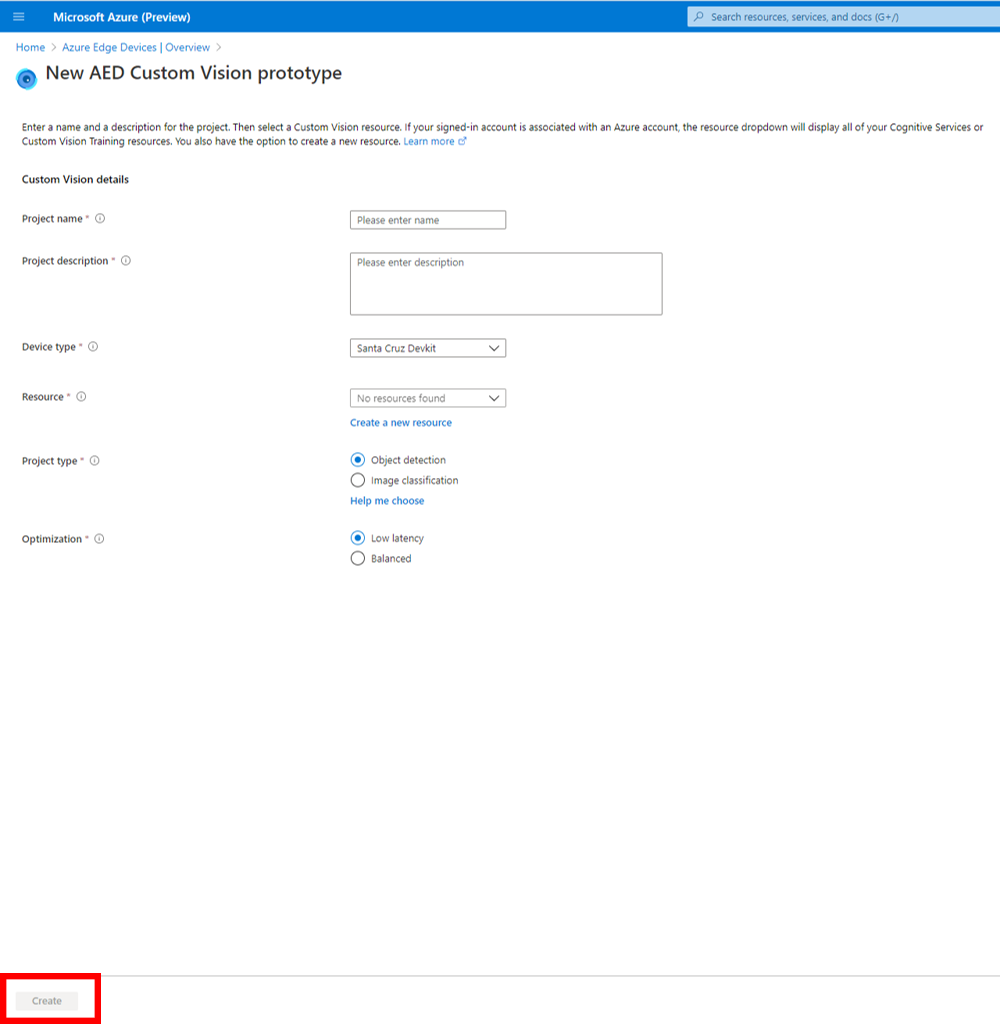
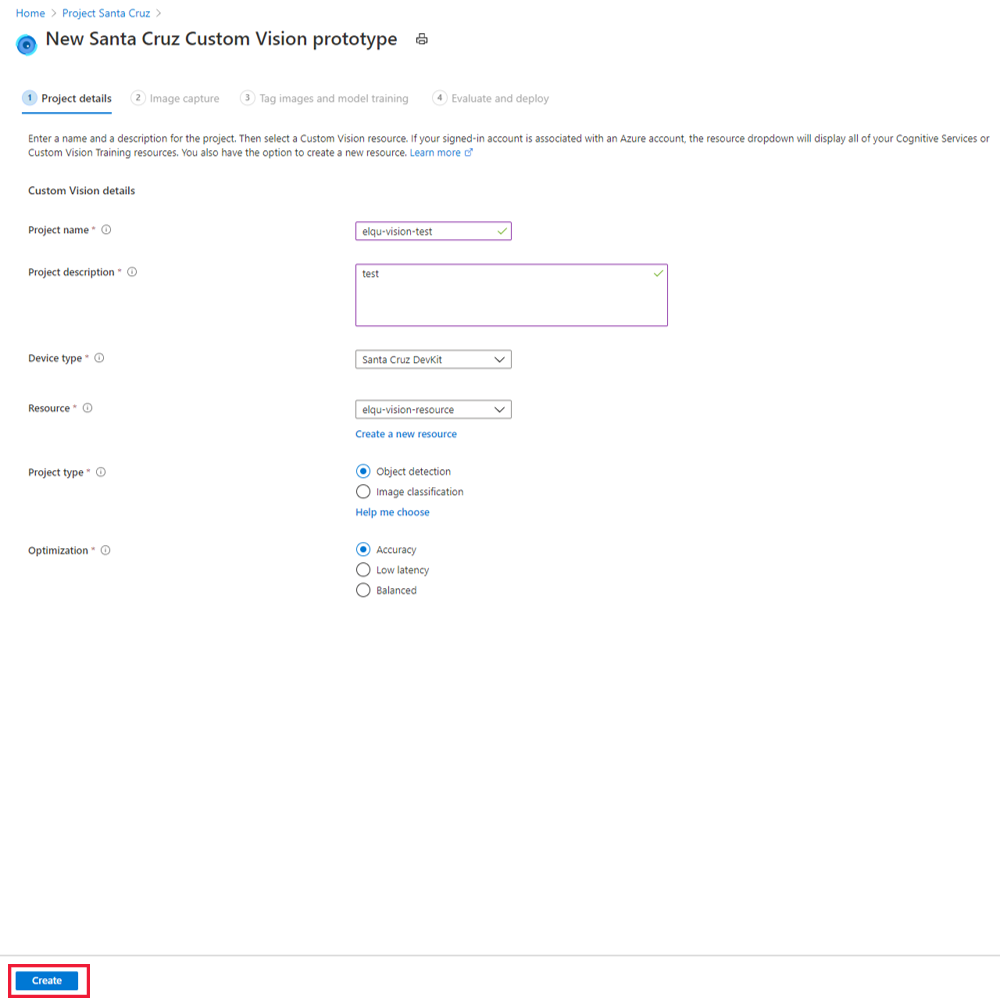
updated no-code vision article to reflect UI changes

diff --git a/user-guides/prototyping/create-nocode-vision.md b/user-guides/prototyping/create-nocode-vision.md
@@ -6,30 +6,21 @@ Project Santa Cruz enables you to build and deploy complete computer vision solu
 
 * Project Santa Cruz Development Kit with the Azure Eye SoM connected.
 
-* [Onboarding](https://github.com/microsoft/Project-Santa-Cruz-Private-Preview/blob/main/user-guides/getting_started/azure-subscription-onboarding.md) complete.
+* [Onboarding](https://github.com/microsoft/Project-Santa-Cruz-Private-Preview/blob/main/user-guides/getting_started/azure-subscription-onboarding.md) has been completed.
 
-* [OOBE](https://github.com/microsoft/Project-Santa-Cruz-Private-Preview/blob/main/user-guides/getting_started/oobe.md) complete.
-
-## Project Santa Cruz in the Azure Portal
-
-1. Start your browser and go to the [Azure portal](https://go.microsoft.com/fwlink/?linkid=2135819).
-2. Sign into your Azure account. 
-3. Use the Search box at the top of the page, enter *Project Santa Cruz*.
-4. In the list that appears, choose *Project Santa Cruz*. Your browser displays the Project Santa Cruz Overview page.
-
-Alternatively, you can navigate directly to the [Project Santa Cruz Overview page](https://go.microsoft.com/fwlink/?linkid=2135819).
-
-![Project Santa Cruz Portal](https://github.com/microsoft/Project-Santa-Cruz-Private-Preview/blob/main/user-guides/getting_started/getting_started_images/aed-portal-home-page.png)
+* [OOBE](https://github.com/microsoft/Project-Santa-Cruz-Private-Preview/blob/main/user-guides/getting_started/oobe.md) has been completed.
 
 ## Create a vision prototype
 
+1. Start your browser and go to the [Project Santa Cruz portal](https://go.microsoft.com/fwlink/?linkid=2135819).
+
 1. On the **Project Santa Cruz Overview** page, click the **Demos & tutorials** tab.
 
-    ![overview](https://github.com/microsoft/Project-Santa-Cruz-Private-Preview/blob/main/user-guides/prototyping/article_images/no_code_vision_overview.png)
+    ![overview](./article_images/no_code_vision_overview.png)
 
 1. Under **Vision tutorials and demos**, click **Create a vision prototype**.
 
-    ![tutorials_and_demos](https://github.com/microsoft/Project-Santa-Cruz-Private-Preview/blob/main/user-guides/prototyping/article_images/no_code_vision_tutorials_and_demos.png)
+    ![tutorials_and_demos](./article_images/no_code_vision_tutorials_and_demos.png)
 
 1. On the **New Santa Cruz Custom Vision prototype** page, do the following:
 
@@ -39,33 +30,35 @@ Alternatively, you can navigate directly to the [Project Santa Cruz Overview pag
 
     1. Select **Santa Cruz Devkit** under the **Device type** drop-down menu.
 
-    1. Select a resource under the **Resource** drop-down menu or create a new resource.
+    1. Select a resource under the **Resource** drop-down menu or click **Create a new resource**. If you elect to create a new resource, do the following in the **Create** window:
+        1. Enter a name for your new resource.
+        1. Select your Azure subscription.
+        1. Select a resource group or create a new one.
+        1. Select your preferred region.
+        1. Select your pricing tier (we recommend S0).
+        1. Click **Create** at the bottom of the window.
+        
+            ![Resource creation screen.](./article_images/no_code_vision_create_resource.png)
 
-    1. In the **Project type** list, choose whether your vision project will perform object detection or image classification. For more information on the project types, click **Help me choose**.
+    1. For **Project type**, choose whether your vision project will perform object detection or image classification. For more information on the project types, click **Help me choose**.
 
-    1. In the **Optimization** list, select whether you want to optimize your project for accuracy, low network latency, or a balance of both.
+    1. For **Optimization**, select whether you want to optimize your project for accuracy, low network latency, or a balance of both.
 
     1. Click the **Create** button.
 
-    ![create_prototype](https://github.com/microsoft/Project-Santa-Cruz-Private-Preview/blob/main/user-guides/prototyping/article_images/no_code_vision_create_prototype.png)
+    ![create_prototype](./article_images/no_code_vision_create_prototype.png)
 
-## Connect a device to your project
+## Connect a device to your project and capture images
 
-After creating a vision solution, you must add a device and its corresponding IoT Hub to it.
+After creating a vision solution, you must add a device and its corresponding IoT Hub to it:
 
 1. Power on your devkit.
 
-1. In the **IoT Hub** pull-down list, select the IoT hub to which your devkit was provisioned during the [OOBE](https://github.com/microsoft/Project-Santa-Cruz-Private-Preview/blob/main/user-guides/getting_started/oobe.md).
+1. In the **IoT Hub** dropdown menu, select the IoT hub to which your devkit was provisioned during the [OOBE](https://github.com/microsoft/Project-Santa-Cruz-Private-Preview/blob/main/user-guides/getting_started/oobe.md).
 
-1. In the **Devices** pull-down list, select your devkit.
-
-![connect_device](https://github.com/microsoft/Project-Santa-Cruz-Private-Preview/blob/main/user-guides/prototyping/article_images/no_code_vision_connect_device.png)
-
-## Capture images
+1. In the **Devices** dropdown menu, select your devkit.
 
 Next, you must either load images or capture images for training your AI model. We recommended uploading at least 30 images per tag type. For example, if you want to build a dog and cat detector, you must upload at least 30 images of dogs and 30 images of cats. To capture images with the Eye SoM of your devkit, do the following:
-
-1. On your vision project page, click **Capture images** under **Capture images from your device to use as training data**. Alternatively, you can choose **+ Capture images** from the menu near the top of the page.
 
 1. In the **Image capture** window, select **View device stream** to view the Eye SoM video stream.
 
@@ -73,45 +66,53 @@ Next, you must either load images or capture images for training your AI model. 
 
 1. In the **Image capture** window, click **Take photo**.
 
-    ![capture_images](https://github.com/microsoft/Project-Santa-Cruz-Private-Preview/blob/main/user-guides/prototyping/article_images/no_code_vision_capture_images.png)
+    ![capture_images](./article_images/no_code_vision_capture_images.png)
 
 1. Alternatively, set up an automated image capture to collect a large quantity of images at a time by checking the **Automatic image capture** box. Select your preferred imaging rate under **Capture rate** and the total number of images you would like to collect under **Target**. Click **Set automatic capture** to begin the automatic image capture process.
 
-    ![automatic_image_capture](https://github.com/microsoft/Project-Santa-Cruz-Private-Preview/blob/main/user-guides/prototyping/article_images/no_code_vision_automatic_image_capture.png)
+    ![automatic_image_capture](./article_images/no_code_vision_automatic_image_capture.png)
 
-When you have enough photos, click **Close**. All images will be saved in [Custom Vision](https://www.customvision.ai/).
+When you have enough photos, click **Next: Tag images and model training** at the bottom of the screen. All images will be saved in [Custom Vision](https://www.customvision.ai/).
 
-## Label the images
+## Tag images and train your model
 
 Before training your model, add labels to your images.
 
-1. Under **Label images and train a model iteration**, select **Open project in Custom Vision**.
+1. On the **Tag images and model training** page, click **Open project in Custom Vision**.
 
-    ![label_and_train](https://github.com/microsoft/Project-Santa-Cruz-Private-Preview/blob/main/user-guides/prototyping/article_images/no_code_vision_label_and_train.png)
+    ![label_and_train](./article_images/no_code_vision_label_and_train.png)
 
-1. On the **Custom Vision** page, select one or more of your unlabeled images.
+1. On the left-hand side of the **Custom Vision** page, click **Untagged** under **Tags** to view the images you just collected in the previous step. Select one or more of your untagged images.
 
-1. Near the top of the page, click **Tag images**.
+1. In the **Image Detail** window, click on the image to draw a [bounding box](https://docs.microsoft.com/en-us/azure/cognitive-services/custom-vision-service/get-started-build-detector#upload-and-tag-images) around an object you would like to tag (only if you selected object detection as your project type). Adjust the bounding box as needed. Type your object tag and click **+** to apply the tag. For example, if you were creating a vision solution that would notify you when a store shelf needs restocking, add the tag "Empty Shelf" to images of empty shelves, and add the tag "Full Shelf" to images of fully-stocked shelves. Repeat for all untagged images.
 
-1. In the **Image Tagging** dialog box, enter a label for each selected image. For example, if you were creating a vision solution that would notify you when a store shelf needs restocking, add the tag "Empty Shelf" to images of empty shelves, and add the tag "Full Shelf" to images of fully-stocked shelves. If you selected object detection as your project type, make sure to draw [bounding boxes](https://docs.microsoft.com/en-us/azure/cognitive-services/custom-vision-service/get-started-build-detector#upload-and-tag-images) around each labeled object in your images.
+    ![Image tagging in Custom Vision.](./article_images/no_code_vision_tag_image.png)
 
-1. After labeling your images, click **Save and Close**.
+1. After tagging your images, click the **X** icon in the upper right corner of the window. Click **Tagged** under **Tags** to view all of your newly tagged images.
 
-## Train your model
+1. After your images are labeled, you are ready to train your AI model. To do so, click **Train** near the top of the page. You must have at least 15 images per tag type to train your model (we recommend using at least 30). Training typically takes about 30 minutes, but it may take longer if your image set is extremely large.
 
-After your images are labeled, you are ready to train your AI model. To do so, click **Train** near the top of the page. Training typically takes about 30 minutes, but may take longer if your image set is extremely large.
+    ![Tagged images in Custom Vision with "Train" button highlighted.](./article_images/no_code_vision_train_model.png)
 
-When the training has completed, you'll be able to [evaluate the results](https://docs.microsoft.com/en-us/azure/cognitive-services/custom-vision-service/get-started-build-detector#evaluate-the-detector). After training, [test your model](https://docs.microsoft.com/en-us/azure/cognitive-services/custom-vision-service/test-your-model) on additional images and retrain as necessary. Each time you train your model, it will be saved as a new iteration. Reference the [Custom Vision documentation](https://docs.microsoft.com/en-us/azure/cognitive-services/custom-vision-service/getting-started-improving-your-classifier) for additional information on how to improve model performance.
+1. When the training has completed, your screen will show your model performance. For more information about evaluating these results, please see the [model evaluation documentation](https://docs.microsoft.com/en-us/azure/cognitive-services/custom-vision-service/get-started-build-detector#evaluate-the-detector). After training, you may also wish to [test your model](https://docs.microsoft.com/en-us/azure/cognitive-services/custom-vision-service/test-your-model) on additional images and retrain as necessary. Each time you train your model, it will be saved as a new iteration. Reference the [Custom Vision documentation](https://docs.microsoft.com/en-us/azure/cognitive-services/custom-vision-service/getting-started-improving-your-classifier) for additional information on how to improve model performance.
+
+    ![Model performance screen after training has completed.](./article_images/no_code_vision_model_performance.png)
 
 Once you are satisfied with the performance of your model, close Custom Vision by closing the browser tab.
 
 ## Deploy Your AI Model
 
-On your vision project page in the Project Santa Cruz portal, click **Deploy Model** to deploy your model to your devkit.
+1. Go back to your Project Santa Cruz portal tab and click **Next: Evaluate and deploy** at the bottom of your screen.
 
-![deploy_model](https://github.com/microsoft/Project-Santa-Cruz-Private-Preview/blob/main/user-guides/prototyping/article_images/no_code_vision_deploy_model.png)
+1. The **Evaluate and deploy** window will show the performance of your selected model iteration. Select the iteration you would like to deploy to your devkit under the **Model iteration** drop-down menu and click **Deploy model** at the bottom of the screen.
 
-After deploying your model, [view your device's video stream](https://github.com/microsoft/Project-Santa-Cruz-Private-Preview/blob/main/user-guides/prototyping/how-tos/vision/vision_view_video-stream.md) to see your model inferencing in action.
+    ![Model deployment screen in the Project Santa Cruz portal.](./article_images/no_code_vision_deploy_model.png)
+
+1. After deploying your model, [view your device's video stream](https://github.com/microsoft/Project-Santa-Cruz-Private-Preview/blob/main/user-guides/prototyping/how-tos/vision/vision_view_video-stream.md) to see your model inferencing in action.
+
+After closing this window, you may go back and edit your vision project anytime by clicking **Vision** under **AI Projects** on the Project Santa Cruz portal homepage and selecting the name of your vision project.
+
+![Vision project page in the SCZ portal.](./article_images/no_code_vision_project_page.png)
 
 ## Provide feedback
 
